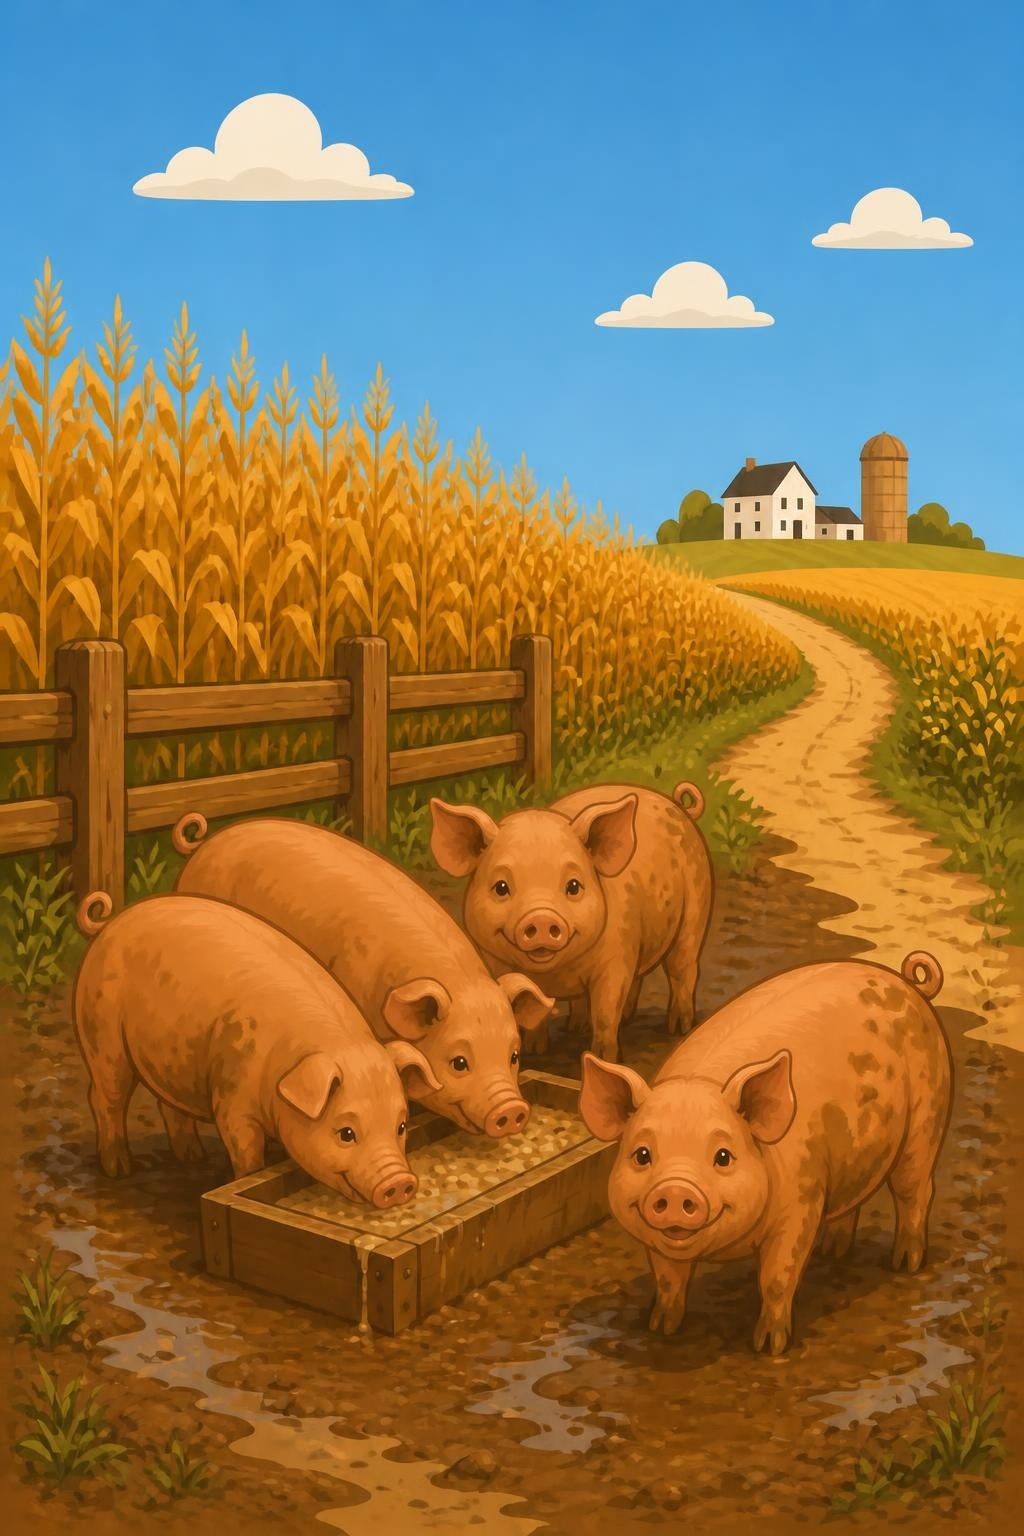
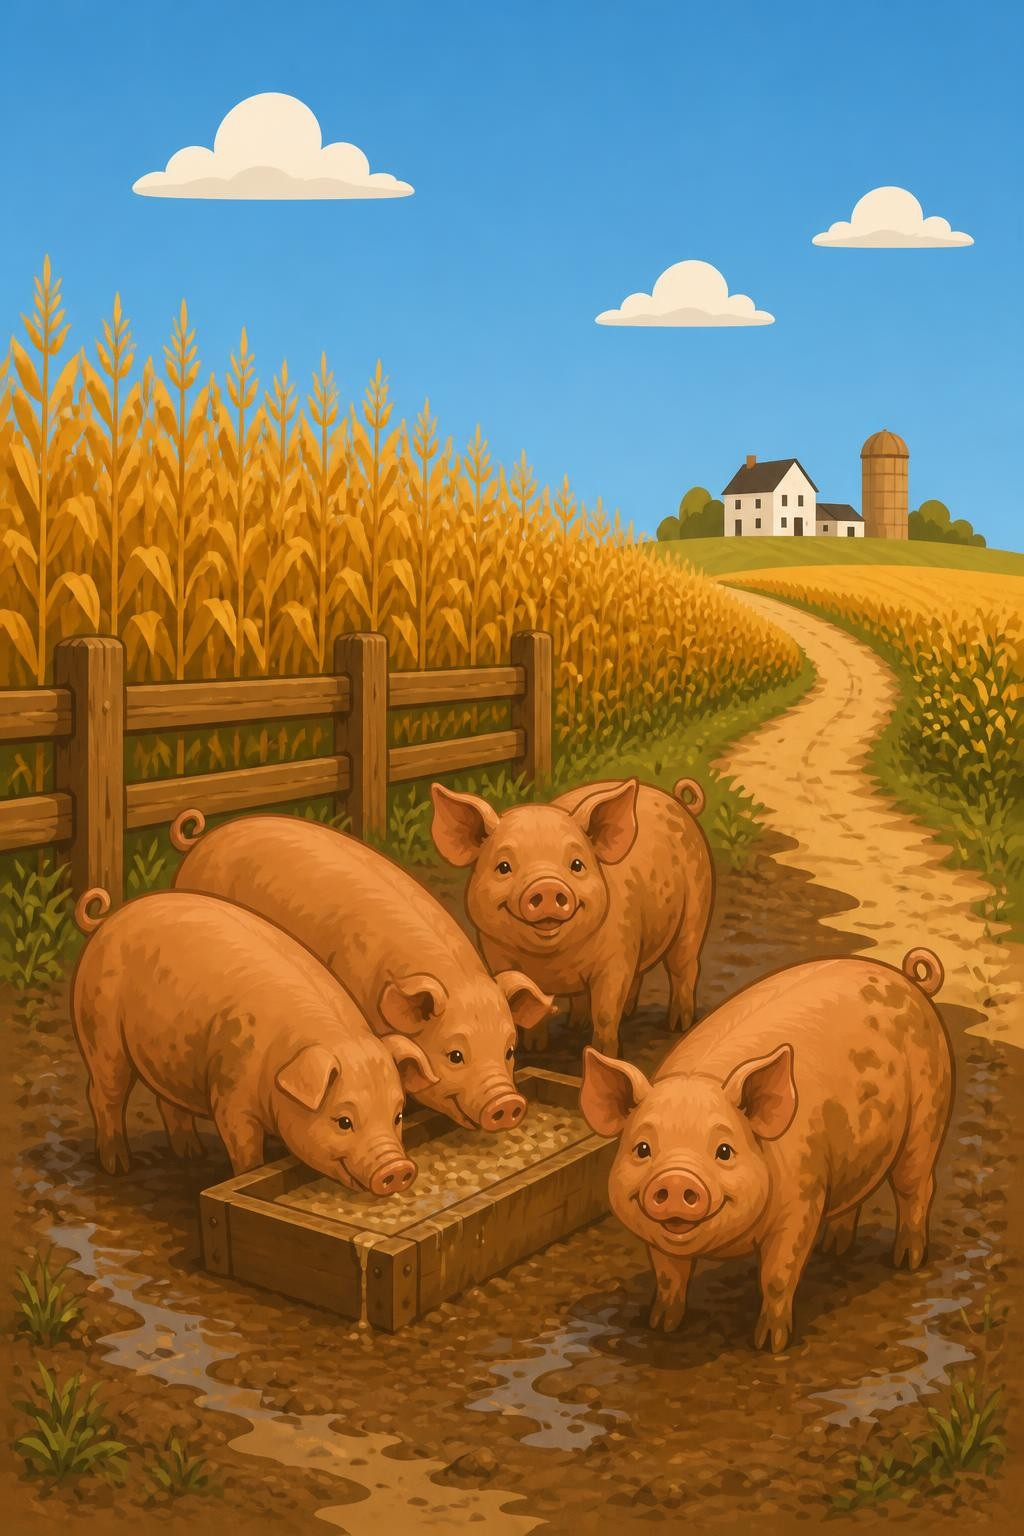
Crumb Trail: one consistent photo backdrop per story (#10)
* Meteoritic Mind: level-up-only fun facts, faster quiz meteors, speed control

- "Did you know" cards now only appear between levels, not also every
  3rd correct answer mid-level.
- Quiz meteors (the answer choices) fall noticeably faster - their base
  speed was much slower than regular hazards, making rounds drag.
- Added a tappable speed pill (0.75x/1x/1.25x/1.5x) in the corner so
  players can speed up or slow down gameplay motion to taste.

Claude-Session: https://claude.ai/code/session_01C6f4YmZBVM16D3VEXpvkid

* Crumb Trail: rework opening screen with real background + crumb art

- Replaced the placeholder inline-SVG splash illustration (mascot loaf,
  dashed path, decorative gift/heart shape) with the new painted
  farmhouse-and-road background photo.
- Cut out a transparent breadcrumb (toast) sprite from the supplied
  reference image and laid six of them along the actual road in the
  photo, growing larger toward the foreground for depth.
- Kept the "Crumb Trail" / "Daily Bread" title text, now overlaid on
  the photo's sky.
- Sized the opening art box to the photo's own 2:3 aspect ratio so it
  never crops (which would desync the crumb overlays from the road)
  and still fits within the viewport height on short/wide screens.

Gameplay stages (path/match/fork) are unchanged - only the opening
splash screen was reworked.

Claude-Session: https://claude.ai/code/session_01C6f4YmZBVM16D3VEXpvkid
[…]

diff --git a/games/crumb-trail/js/game.js b/games/crumb-trail/js/game.js
@@ -16,7 +16,7 @@
       id: "samaritan",
       title: "The Good Samaritan",
       blurb: "Stop for a stranger on the road to Jericho.",
-      card: "assets/ui/card-samaritan.jpg",
+      card: "assets/opening-bg.jpg",
       heartLabel: "Good Samaritan",
       verse: "“But a certain Samaritan, as he journeyed, came where he was: and when he saw him, he had compassion on him.”",
       verseRef: "Luke 10:33",
@@ -26,7 +26,7 @@
         {
           type: "path",
           title: "The road",
-          subtitle: "Tap the glowing crumb. Follow it out of the city.",
+          subtitle: "Tap the glowing crumb. Follow it out of town.",
           start: { x: 12, y: 86 },
           crumbs: [
             { x: 22, y: 74 },
@@ -38,7 +38,7 @@
             { x: 30, y: 50 },
             { x: 62, y: 78 }
           ],
-          scene: "city"
+          scene: "samaritan"
         },
         {
           type: "match",
@@ -50,7 +50,7 @@
           type: "fork",
           title: "By the stones",
           subtitle: "A traveler cannot walk. The road waits on your word.",
-          scene: "city",
+          scene: "samaritan",
           eyebrow: "A fork in the road",
           heading: "Someone is hurt",
           body: "A traveler lies by the stones. Dust on their cloak. They cannot walk on their own.",
@@ -76,7 +76,7 @@
             { x: 18, y: 42 },
             { x: 72, y: 64 }
           ],
-          scene: "inn"
+          scene: "samaritan"
         },
         {
           type: "match",
@@ -88,7 +88,7 @@
           type: "fork",
           title: "A room for rest",
           subtitle: "The inn is open. They still need a bed.",
-          scene: "inn",
+          scene: "samaritan",
           eyebrow: "The last fork",
           heading: "The inn",
           body: "The innkeeper waits at the door. The traveler needs a bed, a meal, and a promise to return.",
@@ -104,7 +104,7 @@
       id: "richfool",
       title: "The Rich Fool",
       blurb: "A bumper harvest, and a choice about what it's for.",
-      card: "assets/ui/card-richfool.jpg",
+      card: "assets/ui/scene-richfool.jpg",
       heartLabel: "Rich Toward God",
       verse: "“So is he that layeth up treasure for himself, and is not rich toward God.”",
       verseRef: "Luke 12:21",
@@ -126,7 +126,7 @@
             { x: 30, y: 50 },
             { x: 62, y: 78 }
           ],
-          scene: "field"
+          scene: "richfool"
         },
         {
           type: "match",
@@ -138,7 +138,7 @@
           type: "fork",
           title: "The full barns",
           subtitle: "The barns are full. The ground still gives more.",
-          scene: "field",
+          scene: "richfool",
           eyebrow: "A rich harvest",
           heading: "What now?",
           body: "The crop came in heavy this year - more than the barns can hold. The extra grain waits in the field for a decision.",
@@ -164,7 +164,7 @@
             { x: 18, y: 42 },
             { x: 72, y: 64 }
           ],
-          scene: "barn"
+          scene: "richfool"
         },
         {
           type: "match",
@@ -176,7 +176,7 @@
           type: "fork",
           title: "An empty stall",
           subtitle: "A neighbor's table is bare tonight.",
-          scene: "barn",
+          scene: "richfool",
           eyebrow: "One more chance",
           heading: "A bare table",
           body: "A family in town has nothing set aside for winter. The wagon behind you is still half full.",
@@ -192,7 +192,7 @@
       id: "prodigal",
       title: "The Prodigal Son",
       blurb: "A son comes to his senses, far from home.",
-      card: "assets/ui/card-prodigal.jpg",
+      card: "assets/ui/pigs-scene.jpg",
       heartLabel: "Welcomed Home",
       verse: "“But when he was yet a great way off, his father saw him, and had compassion, and ran, and fell on his neck, and kissed him.”",
       verseRef: "Luke 15:20",
@@ -214,7 +214,7 @@
             { x: 30, y: 50 },
             { x: 62, y: 78 }
           ],
-          scene: "city"
+          scene: "prodigal"
         },
         {
           type: "match",
@@ -226,7 +226,7 @@
           type: "fork",
           title: "Feeding the pigs",
           subtitle: "The money is gone. The famine is real.",
-          scene: "pigs",
+          scene: "prodigal",
           eyebrow: "Far from home",
           heading: "Nothing left",
           body: "The inheritance is spent. The fields are dry. Even the pig's food starts to look good.",
@@ -252,7 +252,7 @@
             { x: 18, y: 42 },
             { x: 72, y: 64 }
           ],
-          scene: "field"
+          scene: "prodigal"
         },
         {
           type: "match",
@@ -264,7 +264,7 @@
           type: "fork",
           title: "Running to meet him",
           subtitle: "Someone is running down the road.",
-          scene: "field",
+          scene: "prodigal",
           eyebrow: "The father runs",
           heading: "Welcomed home",
           body: "The father is running toward you, arms open, before you've said a word.",
@@ -302,7 +302,7 @@
             { x: 30, y: 50 },
             { x: 62, y: 78 }
           ],
-          scene: "city"
+          scene: "virgins"
         },
         {
           type: "match",
@@ -314,7 +314,7 @@
           type: "fork",
           title: "Keeping watch",
           subtitle: "The bridegroom is delayed. The night is getting long.",
-          scene: "lantern",
+          scene: "virgins",
           eyebrow: "The wait grows long",
           heading: "The oil is low",
           body: "It's taking longer than anyone thought. Some lamps nearby are already flickering.",
@@ -340,7 +340,7 @@
             { x: 18, y: 42 },
             { x: 72, y: 64 }
           ],
-          scene: "inn"
+          scene: "virgins"
         },
         {
           type: "match",
@@ -352,7 +352,7 @@
           type: "fork",
           title: "The door is closing",
           subtitle: "Someone nearby has run out of oil.",
-          scene: "inn",
+          scene: "virgins",
           eyebrow: "One lamp going dark",
           heading: "Can I have some oil?",
           body: "A voice calls out beside you - their lamp just went dark, and the door is about to shut.",
@@ -416,82 +416,19 @@
   // Flat vector backdrops for each stage's scene, in the same simple
   // sky+ground+silhouette style throughout. "city" and "inn" carry the
   // Good Samaritan road; "field" and "barn" carry the harvest story.
+  // Each story now has exactly one photographic backdrop, used behind every
+  // one of its path/fork stages - a single consistent "place" for the whole
+  // story instead of a different flat drawing per stage. .trail-scene
+  // img.backdrop (in style.css) positions whichever one of these renders.
+  const STORY_SCENES = {
+    samaritan: "assets/opening-bg.jpg",
+    richfool: "assets/ui/scene-richfool.jpg",
+    prodigal: "assets/ui/pigs-scene.jpg",
+    virgins: "assets/ui/lantern-scene.jpg"
+  };
   function sceneSvg(kind) {
-    if (kind === "pigs") {
-      // Photographic scenes - reserved for a story's most vivid single
-      // moment rather than every backdrop, so it reads as a real change of
-      // place. .trail-scene img.backdrop mirrors the svg.backdrop rule below.
-      return `<img class="backdrop" src="assets/ui/pigs-scene.jpg" alt="">`;
-    }
-    if (kind === "lantern") {
-      return `<img class="backdrop" src="assets/ui/lantern-scene.jpg" alt="">`;
-    }
-    if (kind === "inn") {
-      return `<svg class="backdrop" viewBox="0 0 400 500" preserveAspectRatio="xMidYMid slice" aria-hidden="true">
-        <rect width="400" height="500" fill="#7EB8D4"/>
-        <rect y="300" width="400" height="200" fill="#C4783A"/>
-        <path d="M0 330 C90 300 160 360 250 320 C320 290 360 330 400 310 L400 500 L0 500 Z" fill="#8B4E1F"/>
-        <path d="M40 500 C120 360 200 340 280 300 C330 276 360 250 400 230" fill="none" stroke="#F4B942" stroke-width="10" stroke-linecap="round" stroke-dasharray="6 16" opacity="0.9"/>
-        <g transform="translate(250 70)">
-          <rect x="18" y="70" width="110" height="90" fill="#FFF1DC" stroke="#3B2A1A" stroke-width="4"/>
-          <path d="M10 74 L73 18 L136 74 Z" fill="#D64545" stroke="#3B2A1A" stroke-width="4" stroke-linejoin="round"/>
-          <rect x="58" y="108" width="30" height="48" fill="#8B4E1F"/>
-          <rect x="32" y="92" width="22" height="22" fill="#7EB8D4" stroke="#3B2A1A" stroke-width="3"/>
-          <rect x="92" y="92" width="22" height="22" fill="#7EB8D4" stroke="#3B2A1A" stroke-width="3"/>
-        </g>
-        <ellipse cx="310" cy="88" rx="28" ry="28" fill="#FFF6EB" opacity="0.8"/>
-      </svg>`;
-    }
-    if (kind === "field") {
-      return `<svg class="backdrop" viewBox="0 0 400 500" preserveAspectRatio="xMidYMid slice" aria-hidden="true">
-        <rect width="400" height="500" fill="#7EB8D4"/>
-        <rect y="300" width="400" height="200" fill="#E8A838"/>
-        <path d="M0 320 C120 280 180 350 270 310 C330 284 370 320 400 300 L400 500 L0 500 Z" fill="#C4783A"/>
-        <path d="M20 500 C110 380 190 350 270 320 C330 298 360 270 400 250" fill="none" stroke="#FFF1DC" stroke-width="10" stroke-linecap="round" stroke-dasharray="6 16" opacity="0.9"/>
-        <g transform="translate(28 330)" stroke="#8B4E1F" stroke-width="3" fill="#F4B942">
-          <path d="M8 90 L2 40 L14 40 Z"/>
-          <path d="M24 90 L18 34 L32 34 Z"/>
-          <path d="M42 90 L36 40 L50 40 Z"/>
-          <rect x="0" y="88" width="52" height="10" fill="#C4783A" stroke="none"/>
-        </g>
-        <g transform="translate(94 344)" stroke="#8B4E1F" stroke-width="3" fill="#FFE4B5">
-          <path d="M8 76 L2 32 L14 32 Z"/>
-          <path d="M24 76 L18 26 L32 26 Z"/>
-          <path d="M42 76 L36 32 L50 32 Z"/>
-          <rect x="0" y="74" width="52" height="8" fill="#C4783A" stroke="none"/>
-        </g>
-        <ellipse cx="320" cy="90" rx="32" ry="32" fill="#FFF6EB" opacity="0.85"/>
-      </svg>`;
-    }
-    if (kind === "barn") {
-      return `<svg class="backdrop" viewBox="0 0 400 500" preserveAspectRatio="xMidYMid slice" aria-hidden="true">
-        <rect width="400" height="500" fill="#7EB8D4"/>
-        <rect y="300" width="400" height="200" fill="#E8A838"/>
-        <path d="M0 330 C100 300 170 360 260 320 C320 296 360 330 400 312 L400 500 L0 500 Z" fill="#C4783A"/>
-        <path d="M30 500 C110 370 190 350 270 314 C330 288 360 260 400 240" fill="none" stroke="#FFF1DC" stroke-width="10" stroke-linecap="round" stroke-dasharray="6 16" opacity="0.9"/>
-        <g transform="translate(230 120)">
-          <rect x="0" y="60" width="130" height="100" fill="#D64545" stroke="#3B2A1A" stroke-width="4"/>
-          <path d="M-8 64 L65 8 L138 64 Z" fill="#8B4E1F" stroke="#3B2A1A" stroke-width="4" stroke-linejoin="round"/>
-          <rect x="56" y="100" width="18" height="60" fill="#3B2A1A" opacity="0.7"/>
-          <path d="M65 8 L65 160" stroke="#FFE4B5" stroke-width="3"/>
-        </g>
-        <image href="assets/ui/silo.png" x="8" y="130" width="112" height="124" preserveAspectRatio="xMidYMax meet"/>
-        <ellipse cx="330" cy="86" rx="30" ry="30" fill="#FFF6EB" opacity="0.85"/>
-      </svg>`;
-    }
-    return `<svg class="backdrop" viewBox="0 0 400 500" preserveAspectRatio="xMidYMid slice" aria-hidden="true">
-      <rect width="400" height="500" fill="#7EB8D4"/>
-      <rect y="300" width="400" height="200" fill="#C4783A"/>
-      <path d="M0 340 C110 290 170 370 270 330 C340 300 370 340 400 328 L400 500 L0 500 Z" fill="#8B4E1F"/>
-      <path d="M20 500 C110 380 190 350 270 320 C330 298 360 270 400 250" fill="none" stroke="#F4B942" stroke-width="10" stroke-linecap="round" stroke-dasharray="6 16" opacity="0.9"/>
-      <g transform="translate(20 150)">
-        <rect x="10" y="70" width="70" height="80" fill="#FFF1DC" stroke="#3B2A1A" stroke-width="4"/>
-        <rect x="50" y="40" width="48" height="110" fill="#E8A838" stroke="#3B2A1A" stroke-width="4"/>
-        <rect x="22" y="88" width="18" height="18" fill="#7EB8D4" stroke="#3B2A1A" stroke-width="3"/>
-        <rect x="64" y="70" width="18" height="18" fill="#7EB8D4" stroke="#3B2A1A" stroke-width="3"/>
-      </g>
-      <ellipse cx="320" cy="90" rx="32" ry="32" fill="#FFF6EB" opacity="0.85"/>
-    </svg>`;
+    const src = STORY_SCENES[kind] || STORY_SCENES.samaritan;
+    return `<img class="backdrop scene-${kind}" src="${src}" alt="">`;
   }
 
   function showToast(message) {
@@ -830,8 +767,8 @@
       const btn = document.createElement("button");
       btn.type = "button";
       btn.className = "level-btn";
-      btn.innerHTML = (story.card ? '<img class="level-btn-bg level-btn-bg--' + story.id + '" src="' + story.card + '" alt="">' : "") +
-        '<span class="level-btn-text"><strong>' + story.title + "</strong><span>" + story.blurb + "</span></span>";
+      btn.innerHTML = '<span class="level-btn-heading"><strong>' + story.title + "</strong><span>" + story.blurb + "</span></span>" +
+        (story.card ? '<img class="level-btn-bg level-btn-bg--' + story.id + '" src="' + story.card + '" alt="">' : "");
       btn.addEventListener("click", function () {
         const overlay = document.getElementById("sq-open");
         overlay.classList.add("is-off");

diff --git a/games/crumb-trail/css/style.css b/games/crumb-trail/css/style.css
@@ -212,9 +212,9 @@ a.sq-studio {
   gap: 12px;
 }
 .level-btn {
-  position: relative;
+  display: flex;
+  flex-direction: column;
   width: 100%;
-  aspect-ratio: 16 / 9;
   box-sizing: border-box;
   border-style: solid;
   border-width: 14px;
@@ -228,41 +228,33 @@ a.sq-studio {
   min-width: 44px;
   min-height: 56px;
 }
-.level-btn-bg {
-  position: absolute;
-  inset: 0;
-  width: 100%;
-  height: 100%;
-  object-fit: cover;
-  object-position: center 65%;
+.level-btn-heading {
   display: block;
-}
-.level-btn-bg--richfool { object-position: center 80%; }
-.level-btn-bg--prodigal { object-position: center 55%; }
-.level-btn-text {
-  position: absolute;
-  inset: 0;
-  display: flex;
-  flex-direction: column;
-  justify-content: flex-end;
-  padding: 10px 12px;
+  padding: 10px 12px 8px;
   box-sizing: border-box;
-  background: linear-gradient(180deg, rgba(59, 42, 26, 0) 40%, rgba(59, 42, 26, 0.72) 100%);
 }
 .level-btn strong {
   display: block;
   font-family: "Fredoka", "Trebuchet MS", sans-serif;
   font-size: 18px;
-  color: var(--cream);
-  text-shadow: 0 2px 6px rgba(0, 0, 0, 0.5);
+  color: var(--ink);
 }
-.level-btn span span {
+.level-btn-heading span {
   display: block;
   font-size: 12px;
-  color: var(--paper);
+  color: var(--ink-soft);
   margin-top: 2px;
-  text-shadow: 0 1px 4px rgba(0, 0, 0, 0.5);
 }
+.level-btn-bg {
+  display: block;
+  width: 100%;
+  aspect-ratio: 16 / 9;
+  object-fit: cover;
+  object-position: center 65%;
+}
+.level-btn-bg--richfool { object-position: center 78%; }
+.level-btn-bg--prodigal { object-position: center 60%; }
+.level-btn-bg--virgins { object-position: center 70%; }
 .level-btn:active { transform: translateY(2px); }
 #sq-open .sq-howto-card {
   background: var(--paper);
@@ -516,6 +508,9 @@ a.sq-studio {
   object-position: center 62%;
   display: block;
 }
+.trail-scene img.backdrop.scene-richfool { object-position: center 75%; }
+.trail-scene img.backdrop.scene-prodigal { object-position: center 60%; }
+.trail-scene img.backdrop.scene-virgins { object-position: center 68%; }
 .crumb {
   position: absolute;
   width: 44px;
